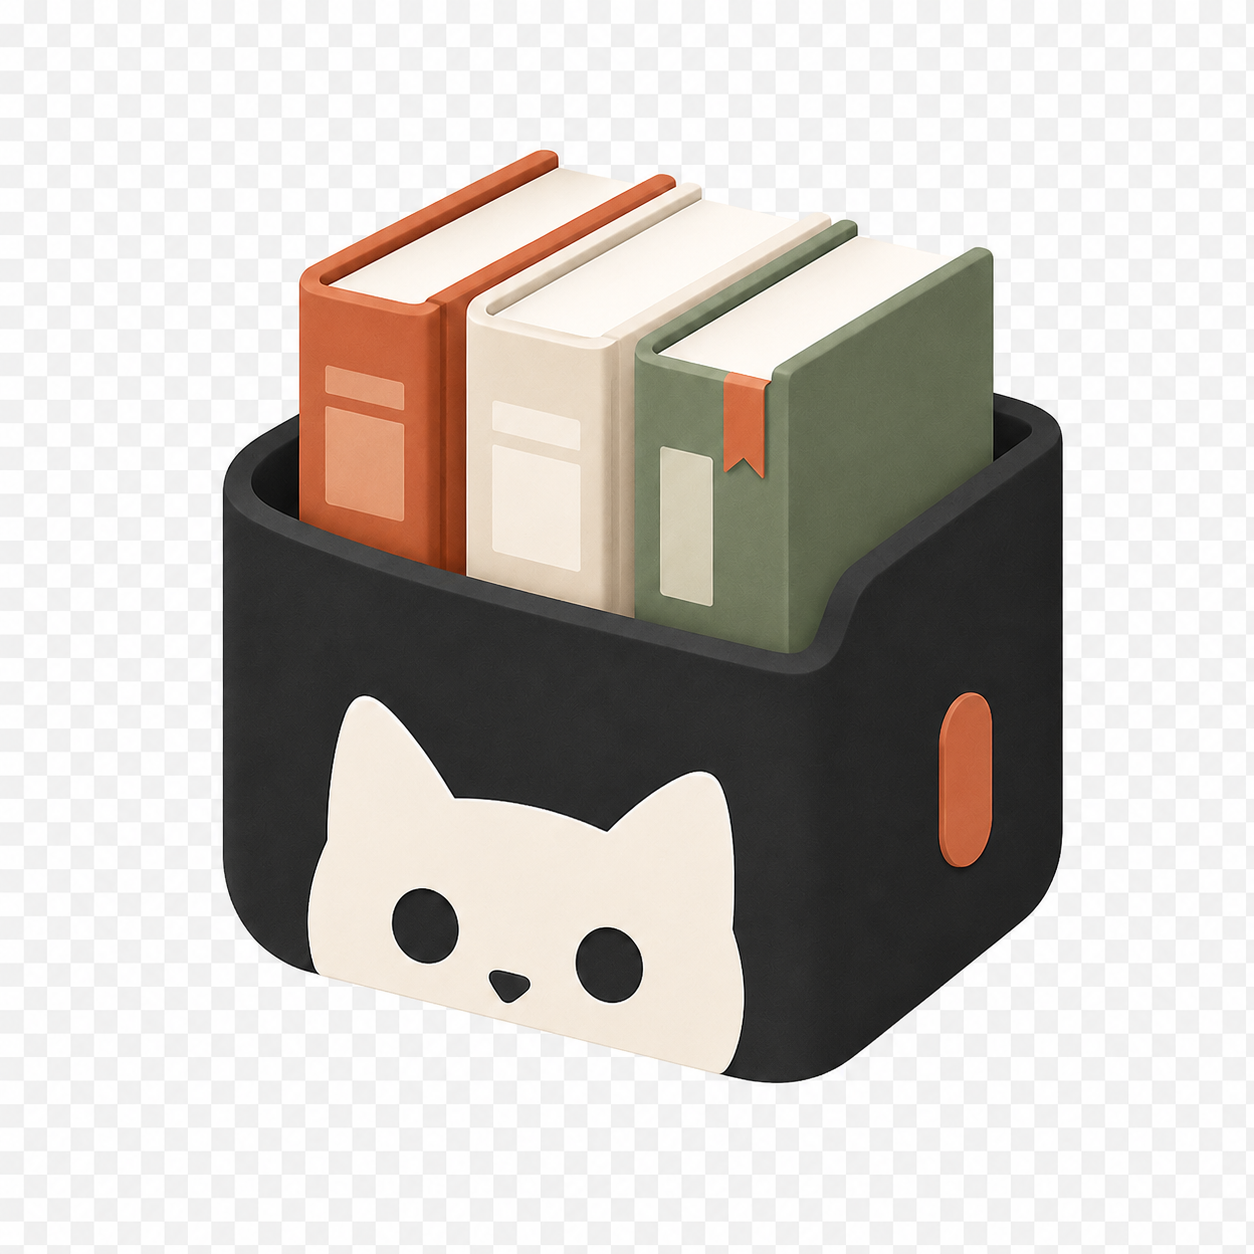
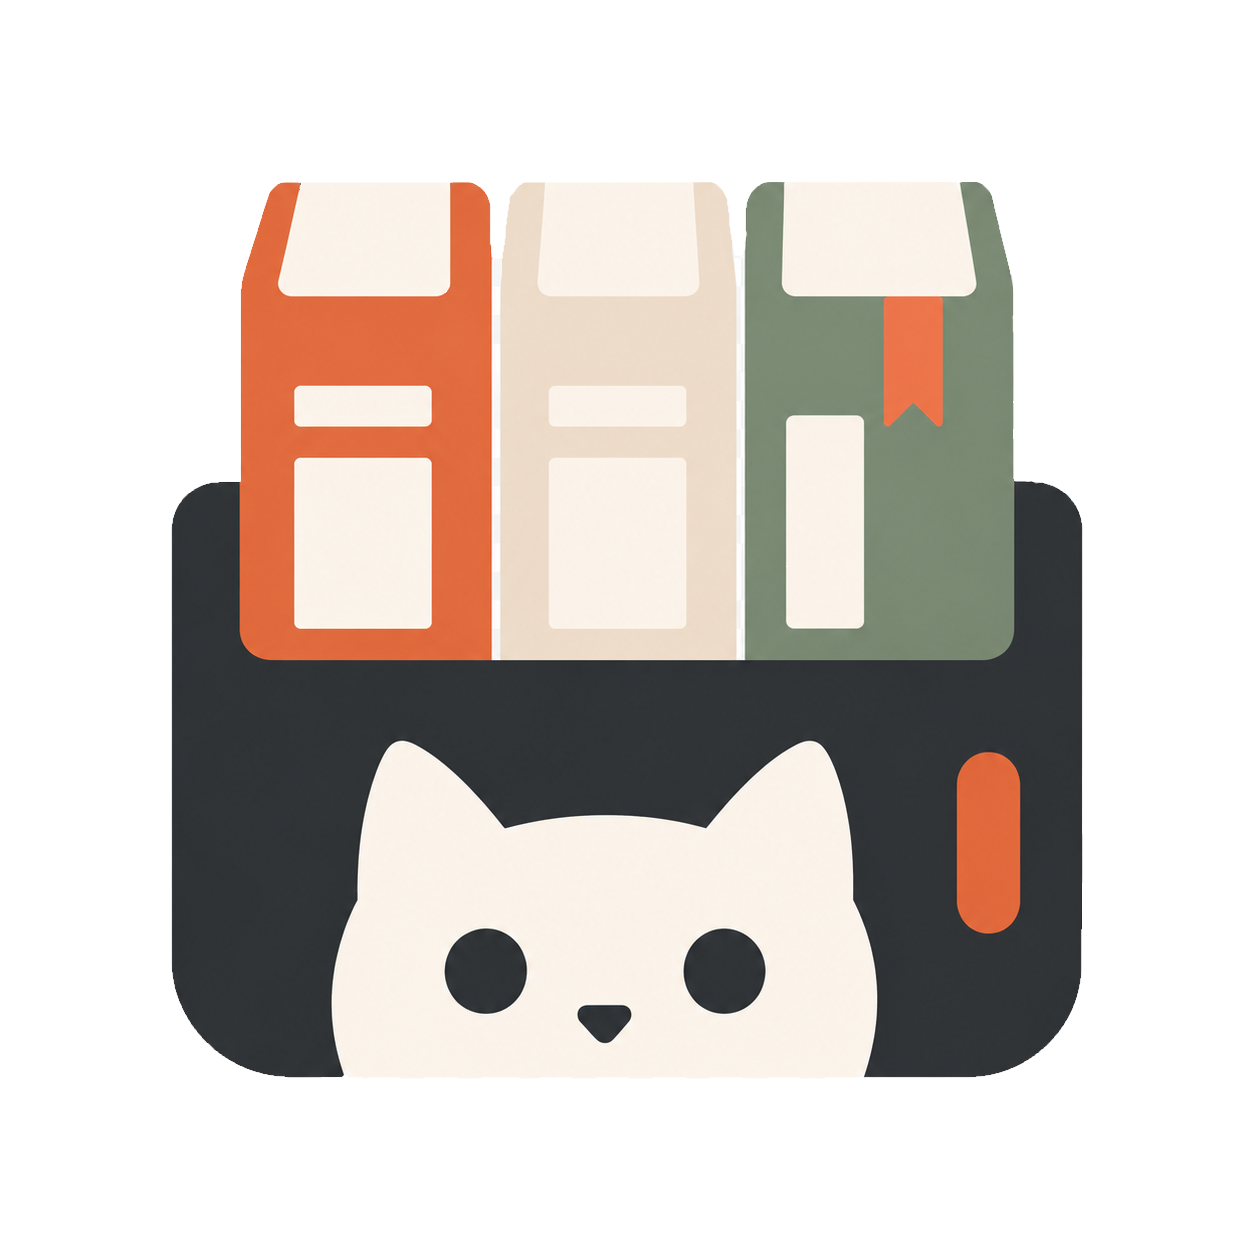
feat: apk和web增加图标，apk界面优化

Changed region(s): [[0.1244, 0.1244, 0.8708, 0.8708]]

diff --git a/android/app/src/main/java/com/dokura/app/ui/CatalogScreen.kt b/android/app/src/main/java/com/dokura/app/ui/CatalogScreen.kt
@@ -27,6 +27,8 @@ import androidx.compose.material3.Button
 import androidx.compose.material3.Checkbox
 import androidx.compose.material3.CircularProgressIndicator
 import androidx.compose.material3.HorizontalDivider
+import androidx.compose.material3.Icon
+import androidx.compose.material3.IconButton
 import androidx.compose.material3.MaterialTheme
 import androidx.compose.material3.OutlinedButton
 import androidx.compose.material3.OutlinedTextField
@@ -34,6 +36,10 @@ import androidx.compose.material3.RangeSlider
 import androidx.compose.material3.Surface
 import androidx.compose.material3.Text
 import androidx.compose.material3.TextButton
+import androidx.compose.material.icons.Icons
+import androidx.compose.material.icons.filled.Close
+import androidx.compose.material.icons.filled.Refresh
+import androidx.compose.material.icons.filled.Search
 import androidx.compose.runtime.Composable
 import androidx.compose.runtime.LaunchedEffect
 import androidx.compose.runtime.DisposableEffect
@@ -47,6 +53,10 @@ import androidx.compose.runtime.rememberCoroutineScope
 import androidx.compose.runtime.setValue
 import androidx.compose.ui.Alignment
 import androidx.compose.ui.Modifier
+import androidx.compose.ui.graphics.Color
+import androidx.compose.ui.graphics.SolidColor
+import androidx.compose.ui.graphics.vector.ImageVector
+import androidx.compose.ui.graphics.vector.path
 import androidx.compose.ui.platform.testTag
 import androidx.compose.ui.text.font.FontWeight
 import androidx.compose.ui.text.style.TextOverflow
@@ -150,8 +160,44 @@ private fun CatalogHeader(
     onFilters: () -> Unit,
     onRefresh: () -> Unit,
 ) {
-    Column(Modifier.padding(horizontal = 16.dp, vertical = 12.dp)) {
-        Text(UiText.Catalog, style = MaterialTheme.typography.headlineMedium, fontWeight = FontWeight.SemiBold)
+    var searchVisible by remember { mutableStateOf(search.isNotEmpty()) }
+    Column(Modifier.padding(horizontal = 16.dp, vertical = 8.dp)) {
+        Row(Modifier.fillMaxWidth(), verticalAlignment = Alignment.CenterVertically) {
+            Text(
+                UiText.Catalog,
+                modifier = Modifier.weight(1f),
+                style = MaterialTheme.typography.headlineMedium,
+                fontWeight = FontWeight.SemiBold,
+            )
+            IconButton(onClick = {
+                if (searchVisible) {
+                    searchVisible = false
+                    onSearch("")
+                } else {
+                    searchVisible = true
+                }
+            }) {
+                Icon(
+                    if (searchVisible) Icons.Default.Close else Icons.Default.Search,
+                    contentDescription = if (searchVisible) "关闭搜索" else UiText.SearchHint,
+                )
+            }
+            IconButton(onClick = onRefresh) {
+                Icon(Icons.Default.Refresh, contentDescription = "刷新")
+            }
+            IconButton(onClick = onFilters) {
+                Icon(FilterListIcon, contentDescription = UiText.Filters)
+            }
+        }
+        if (searchVisible) {
+            OutlinedTextField(
+                value = search,
+                onValueChange = onSearch,
+                modifier = Modifier.fillMaxWidth(),
+                singleLine = true,
+                label = { Text(UiText.SearchHint) },
+            )
+        }
         Row(Modifier.fillMaxWidth(), verticalAlignment = Alignment.CenterVertically) {
             TextButton(onClick = { onBreadcrumb("") }) { Text("Content") }
             var accumulated = ""
@@ -162,19 +208,34 @@ private fun CatalogHeader(
                 TextButton(onClick = { onBreadcrumb(target) }) { Text(part, maxLines = 1) }
             }
         }
-        OutlinedTextField(
-            value = search,
-            onValueChange = onSearch,
-            modifier = Modifier.fillMaxWidth(),
-            singleLine = true,
-            label = { Text(UiText.SearchHint) },
-        )
-        Row(Modifier.fillMaxWidth(), horizontalArrangement = Arrangement.End) {
-            TextButton(onClick = onRefresh) { Text("刷新") }
-            TextButton(onClick = onFilters) { Text(UiText.Filters) }
-        }
     }
 }
+
+private val FilterListIcon = ImageVector.Builder(
+    name = "FilterList",
+    defaultWidth = 24.dp,
+    defaultHeight = 24.dp,
+    viewportWidth = 24f,
+    viewportHeight = 24f,
+).apply {
+    path(fill = SolidColor(Color.Black)) {
+        moveTo(3f, 6f)
+        verticalLineTo(8f)
+        horizontalLineTo(21f)
+        verticalLineTo(6f)
+        close()
+        moveTo(6f, 11f)
+        verticalLineTo(13f)
+        horizontalLineTo(18f)
+        verticalLineTo(11f)
+        close()
+        moveTo(10f, 16f)
+        verticalLineTo(18f)
+        horizontalLineTo(14f)
+        verticalLineTo(16f)
+        close()
+    }
+}.build()
 
 @Composable
 private fun CatalogList(

diff --git a/android/app/src/main/java/com/dokura/app/ui/SettingsScreen.kt b/android/app/src/main/java/com/dokura/app/ui/SettingsScreen.kt
@@ -3,6 +3,7 @@ package com.dokura.app.ui
 import androidx.compose.foundation.layout.Arrangement
 import androidx.compose.foundation.layout.Column
 import androidx.compose.foundation.layout.ColumnScope
+import androidx.compose.foundation.layout.FlowRow
 import androidx.compose.foundation.layout.Row
 import androidx.compose.foundation.layout.fillMaxSize
 import androidx.compose.foundation.layout.fillMaxWidth
@@ -12,12 +13,16 @@ import androidx.compose.foundation.text.KeyboardOptions
 import androidx.compose.foundation.verticalScroll
 import androidx.compose.material3.Button
 import androidx.compose.material3.AlertDialog
+import androidx.compose.material3.FilterChip
+import androidx.compose.material3.Icon
 import androidx.compose.material3.MaterialTheme
 import androidx.compose.material3.OutlinedTextField
 import androidx.compose.material3.Surface
 import androidx.compose.material3.Text
 import androidx.compose.material3.TextButton
 import androidx.compose.material3.Switch
+import androidx.compose.material.icons.Icons
+import androidx.compose.material.icons.filled.Check
 import androidx.compose.runtime.Composable
 import androidx.compose.runtime.LaunchedEffect
 import androidx.compose.runtime.collectAsState
@@ -148,11 +153,22 @@ private fun SettingsSection(title: String, content: @Composable ColumnScope.() -
 
 @Composable
 private fun <T> ChoiceRow(options: List<Pair<T, String>>, selected: T, onSelect: (T) -> Unit) {
-    Row(Modifier.fillMaxWidth()) {
+    FlowRow(
+        Modifier.fillMaxWidth(),
+        horizontalArrangement = Arrangement.spacedBy(8.dp),
+        verticalArrangement = Arrangement.spacedBy(8.dp),
+    ) {
         options.forEach { (value, label) ->
-            TextButton(onClick = { onSelect(value) }, Modifier.weight(1f).testTag("choice:$label")) {
-                Text(if (selected == value) "• $label" else label)
-            }
+            val isSelected = selected == value
+            FilterChip(
+                selected = isSelected,
+                onClick = { onSelect(value) },
+                label = { Text(label) },
+                leadingIcon = if (isSelected) {
+                    { Icon(Icons.Default.Check, contentDescription = null) }
+                } else null,
+                modifier = Modifier.testTag("choice:$label"),
+            )
         }
     }
 }

diff --git a/android/app/src/main/java/com/dokura/app/ui/RecentScreen.kt b/android/app/src/main/java/com/dokura/app/ui/RecentScreen.kt
@@ -3,9 +3,12 @@ package com.dokura.app.ui
 import androidx.compose.foundation.clickable
 import androidx.compose.foundation.layout.Column
 import androidx.compose.foundation.layout.Row
+import androidx.compose.foundation.layout.Spacer
+import androidx.compose.foundation.layout.aspectRatio
 import androidx.compose.foundation.layout.fillMaxSize
 import androidx.compose.foundation.layout.fillMaxWidth
 import androidx.compose.foundation.layout.padding
+import androidx.compose.foundation.layout.width
 import androidx.compose.foundation.lazy.LazyColumn
 import androidx.compose.foundation.lazy.items
 import androidx.compose.material3.HorizontalDivider
@@ -27,12 +30,22 @@ fun RecentScreen(viewModel: DokuraViewModel, openDetail: (String) -> Unit) {
         Text(UiText.Recent, Modifier.padding(16.dp), style = MaterialTheme.typography.headlineMedium, fontWeight = FontWeight.SemiBold)
         if (recent.isEmpty()) EmptyState(UiText.EmptyRecent) else LazyColumn {
             items(recent, key = { it.fileId }) { item ->
-                Row(Modifier.fillMaxWidth().clickable { openDetail(item.fileId) }.padding(16.dp)) {
+                Row(Modifier.fillMaxWidth().clickable { openDetail(item.fileId) }.padding(horizontal = 16.dp, vertical = 10.dp)) {
+                    RemoteImage(
+                        url = viewModel.imageUrl("api/v1/files/${item.fileId}/cover"),
+                        headers = viewModel.imageHeaders(),
+                        description = item.fileName,
+                        modifier = Modifier.width(64.dp).aspectRatio(.72f),
+                    )
+                    Spacer(Modifier.width(14.dp))
                     Column(Modifier.weight(1f)) {
                         Text(item.fileName, fontWeight = FontWeight.Medium)
-                        Text(item.relativePath, color = MaterialTheme.colorScheme.outline, style = MaterialTheme.typography.bodySmall)
+                        Text(
+                            "第 ${item.page} 页",
+                            color = MaterialTheme.colorScheme.outline,
+                            style = MaterialTheme.typography.bodySmall,
+                        )
                     }
-                    Text("第 ${item.page} 页")
                 }
                 HorizontalDivider()
             }

diff --git a/android/app/src/androidTest/java/com/dokura/app/MainActivityTest.kt b/android/app/src/androidTest/java/com/dokura/app/MainActivityTest.kt
@@ -2,12 +2,14 @@ package com.dokura.app
 
 import android.content.pm.ActivityInfo
 import androidx.compose.ui.test.assertIsDisplayed
+import androidx.compose.ui.test.assertIsSelected
 import androidx.compose.ui.test.assertTextContains
 import androidx.compose.ui.test.assert
 import androidx.compose.ui.test.junit4.v2.createAndroidComposeRule
 import androidx.compose.ui.test.onAllNodesWithText
 import androidx.compose.ui.test.onAllNodesWithTag
 import androidx.compose.ui.test.onNodeWithTag
+import androidx.compose.ui.test.onNodeWithContentDescription
 import androidx.compose.ui.test.onNodeWithText
 import androidx.compose.ui.test.performClick
 import androidx.compose.ui.test.performTextClearance
@@ -53,7 +55,7 @@ class MainActivityTest {
     }
 
     @Test fun catalogRecentAndSettingsNavigationIsAvailable() {
-        composeRule.onNodeWithText(UiText.SearchHint).assertIsDisplayed()
+        composeRule.onNodeWithContentDescription(UiText.SearchHint).assertIsDisplayed()
         composeRule.onNodeWithText(UiText.RecentNav).performClick()
         composeRule.onNodeWithText(UiText.Recent).assertIsDisplayed()
         composeRule.onNodeWithText(UiText.Settings).performClick()
@@ -73,12 +75,12 @@ class MainActivityTest {
     @Test fun gridChoicesRemainAvailableAfterRotation() {
         composeRule.onNodeWithText(UiText.Settings).performClick()
         composeRule.onNodeWithTag("choice:5 列").performScrollTo().performClick()
-        composeRule.onNodeWithText("• 5 列").assertIsDisplayed()
+        composeRule.onNodeWithTag("choice:5 列").assertIsSelected()
         composeRule.activity.requestedOrientation = ActivityInfo.SCREEN_ORIENTATION_LANDSCAPE
         composeRule.waitUntil(5_000) {
-            composeRule.onAllNodesWithText("• 5 列").fetchSemanticsNodes().isNotEmpty()
+            composeRule.onAllNodesWithTag("choice:5 列").fetchSemanticsNodes().isNotEmpty()
         }
-        composeRule.onNodeWithText("• 5 列").assertExists()
+        composeRule.onNodeWithTag("choice:5 列").assertIsSelected()
         composeRule.onNodeWithText("4 列").assertExists()
         composeRule.onNodeWithText("6 列").assertExists()
     }
@@ -105,10 +107,10 @@ class MainActivityTest {
         composeRule.onNodeWithTag("choice:10 GB").performScrollTo().performClick()
         composeRule.activity.requestedOrientation = ActivityInfo.SCREEN_ORIENTATION_LANDSCAPE
         composeRule.waitUntil(5_000) {
-            composeRule.onAllNodesWithText("• ${UiText.RightToLeft}").fetchSemanticsNodes().isNotEmpty()
+            composeRule.onAllNodesWithTag("choice:${UiText.RightToLeft}").fetchSemanticsNodes().isNotEmpty()
         }
-        composeRule.onNodeWithText("• ${UiText.RightToLeft}").assertExists()
-        composeRule.onNodeWithText("• 10 GB").assertExists()
+        composeRule.onNodeWithTag("choice:${UiText.RightToLeft}").assertIsSelected()
+        composeRule.onNodeWithTag("choice:10 GB").assertIsSelected()
     }
 
     @Test fun readerGestureLayerUsesDirectionAndBlocksZoomedDragButKeepsEdgeTap() {

diff --git a/web/index.html b/web/index.html
@@ -5,6 +5,9 @@
     <meta name="viewport" content="width=device-width, initial-scale=1.0" />
     <meta name="theme-color" content="#18201d" />
     <meta name="description" content="Dokura 局域网内容库" />
+    <link rel="icon" type="image/png" sizes="32x32" href="/favicon.png" />
+    <link rel="apple-touch-icon" sizes="180x180" href="/apple-touch-icon.png" />
+    <link rel="manifest" href="/manifest.webmanifest" />
     <title>Dokura</title>
   </head>
   <body>

diff --git a/android/app/src/main/java/com/dokura/app/ui/DetailScreen.kt b/android/app/src/main/java/com/dokura/app/ui/DetailScreen.kt
@@ -200,7 +200,7 @@ private fun Metadata(item: FileDetailDto) {
         MetadataRow("页数", "${item.pageCount}（不可用 ${item.unavailablePageCount}）")
         MetadataRow("处理状态", UiText.statusLabel(item.status))
         MetadataRow("未分类 tag", item.unclassifiedTags.joinToString("、").ifBlank { UiText.Unrecognized })
-        MetadataRow("错误原因", item.lastError ?: UiText.Unrecognized)
+        item.lastError?.takeIf { it.isNotBlank() }?.let { MetadataRow("错误原因", it) }
     }
 }
 